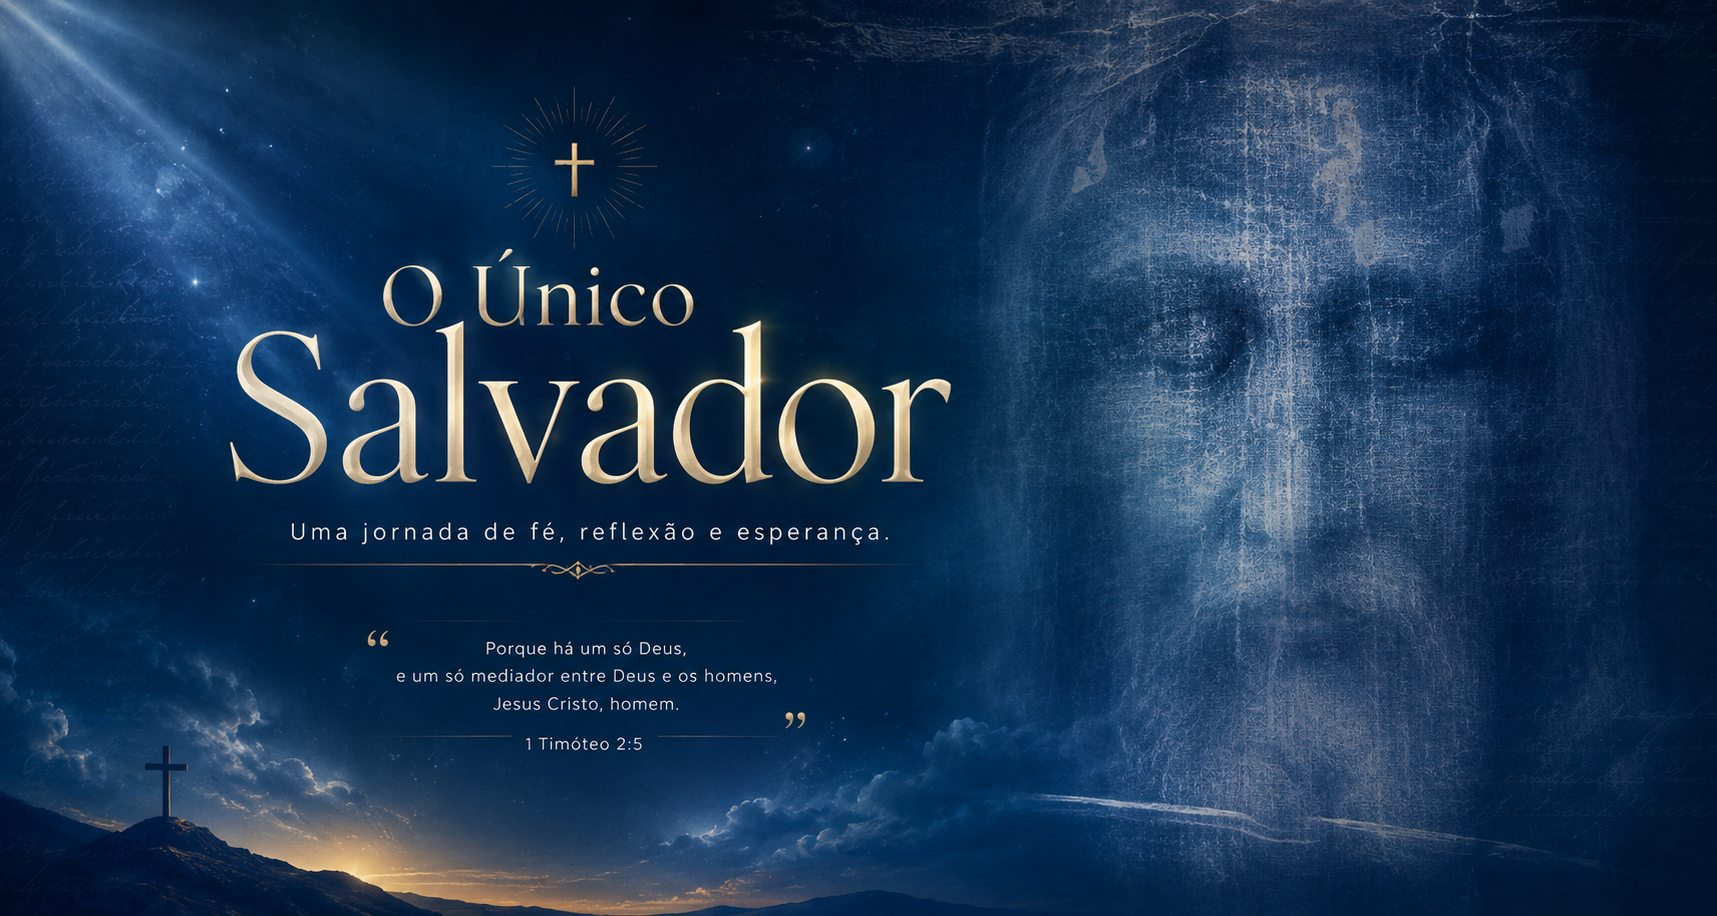
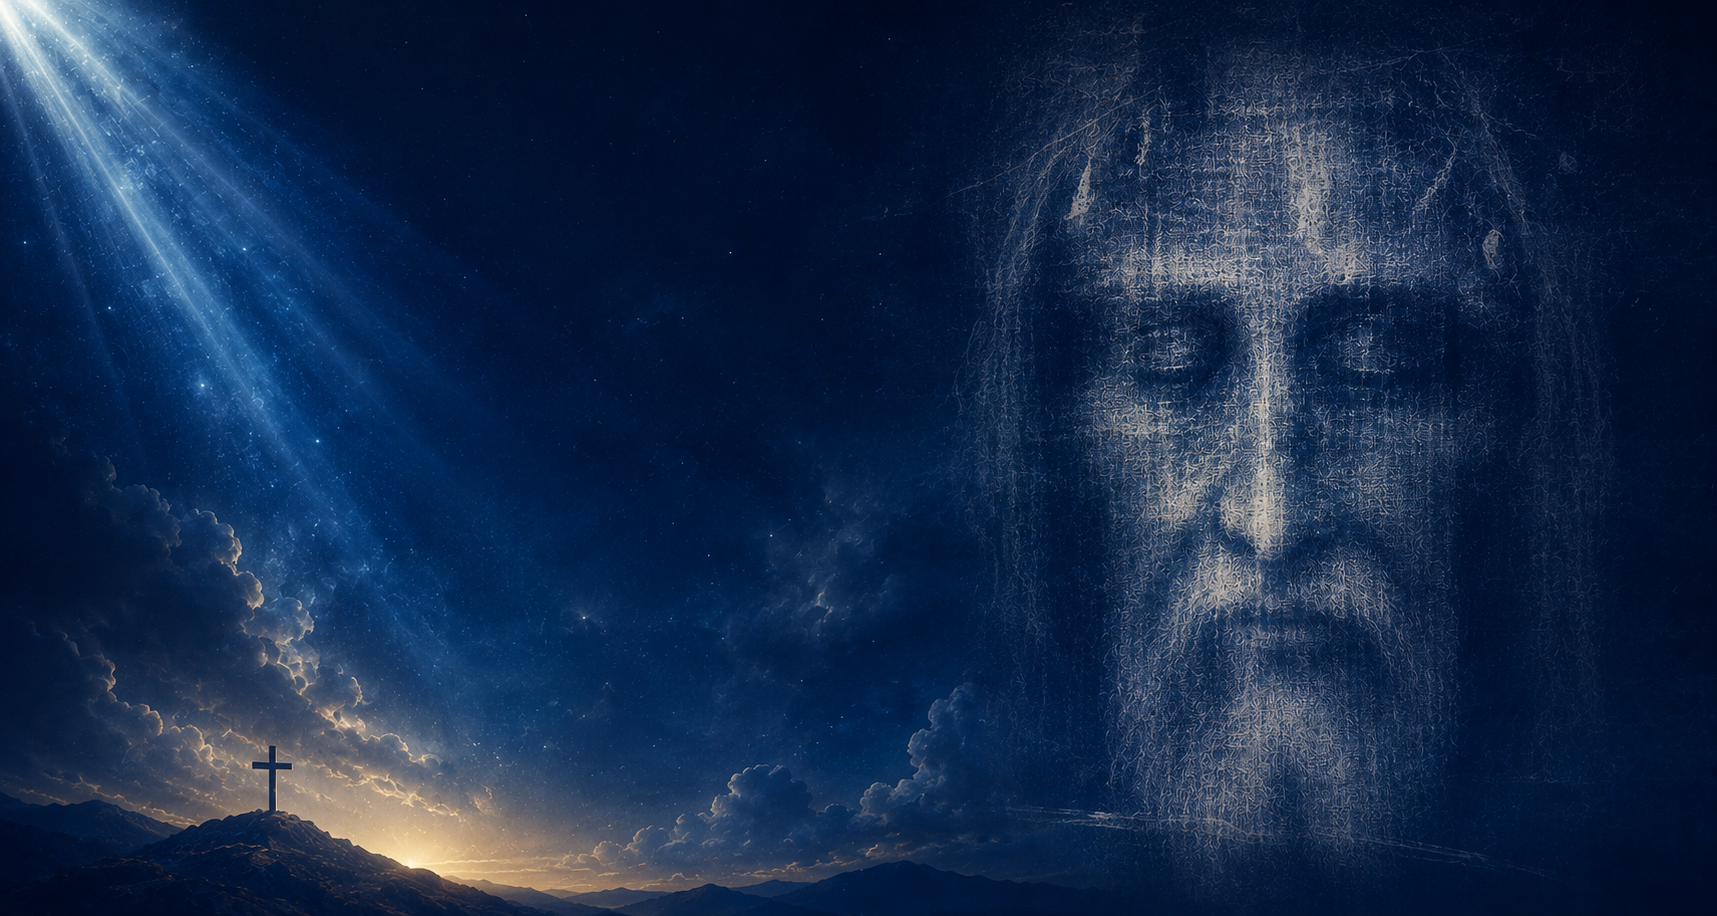
Remontagem de Capa em Desk e Smart

diff --git a/src/components/Header.tsx b/src/components/Header.tsx
@@ -15,24 +15,61 @@ export default function Header() {
 
   useEffect(() => {
     const onScroll = () => setScrolled(window.scrollY > 60);
-
     window.addEventListener('scroll', onScroll);
-
     return () => window.removeEventListener('scroll', onScroll);
   }, []);
 
   return (
     <header id="inicio" className="relative bg-[#020b18]">
-      {/* Banner */}
-      <div className="relative w-full overflow-hidden bg-[#020b18]">
+      {/* Banner com texto em código */}
+      <div className="relative w-full overflow-hidden bg-[#020b18] h-[300px] sm:h-[420px] md:h-[560px] lg:h-[680px]">
         <img
           src="/banner_site.png"
           alt="O Único Salvador"
-          className="w-full h-auto block"
+          className="w-full h-full object-cover"
+          style={{ objectPosition: 'center center' }}
         />
 
-        {/* Vinheta suave */}
-        <div className="absolute inset-0 bg-gradient-to-b from-black/5 via-transparent to-[#020b18]/70" />
+        <div className="absolute inset-0 bg-gradient-to-r from-[#020b18]/75 via-[#020b18]/30 to-[#020b18]/10" />
+        <div className="absolute inset-0 bg-gradient-to-b from-black/10 via-transparent to-[#020b18]/85" />
+
+        <div className="absolute inset-0 flex items-center">
+          <div className="w-full max-w-6xl mx-auto px-6 md:px-10">
+            <div className="max-w-[620px] text-center md:text-left">
+              <div className="flex items-center justify-center md:justify-start gap-3 mb-4 text-amber-300">
+                <div className="h-px w-16 bg-amber-300/50" />
+                <Cross size={22} />
+                <div className="h-px w-16 bg-amber-300/50" />
+              </div>
+
+              <h1
+                className="text-[42px] sm:text-6xl md:text-7xl lg:text-8xl text-amber-100 leading-[0.95] tracking-wide drop-shadow-2xl"
+                style={{ fontFamily: "'Cinzel', serif" }}
+              >
+                O Único
+                <br />
+                Salvador
+              </h1>
+
+              <p
+                className="mt-5 text-xs sm:text-base md:text-xl text-stone-300 tracking-[0.22em] uppercase"
+                style={{ fontFamily: "'Lora', serif" }}
+              >
+                Uma jornada de fé, reflexão e esperança.
+              </p>
+
+              <p
+                className="hidden sm:block mt-8 text-stone-400 text-sm md:text-base leading-relaxed max-w-lg"
+                style={{ fontFamily: "'Lora', serif" }}
+              >
+                “Porque há um só Deus, e um só mediador entre Deus e os homens,
+                Jesus Cristo, homem.”
+                <br />
+                <span className="text-amber-300/80">1 Timóteo 2:5</span>
+              </p>
+            </div>
+          </div>
+        </div>
       </div>
 
       {/* Navbar */}
@@ -44,7 +81,6 @@ export default function Header() {
         }`}
       >
         <div className="max-w-6xl mx-auto px-4 flex items-center justify-between h-14">
-          {/* Logo */}
           <a
             href="#inicio"
             className="flex items-center gap-2 text-amber-300 font-bold tracking-widest text-xs sm:text-sm uppercase hover:text-amber-200 transition-colors"
@@ -54,7 +90,6 @@ export default function Header() {
             <span>O Único Salvador</span>
           </a>
 
-          {/* Desktop menu */}
           <ul className="hidden md:flex gap-8">
             {navItems.map((item) => (
               <li key={item.href}>
@@ -69,7 +104,6 @@ export default function Header() {
             ))}
           </ul>
 
-          {/* Mobile button */}
           <button
             className="md:hidden text-stone-300 hover:text-amber-300 transition-colors"
             onClick={() => setMenuOpen(!menuOpen)}
@@ -79,7 +113,6 @@ export default function Header() {
           </button>
         </div>
 
-        {/* Mobile menu */}
         {menuOpen && (
           <div className="md:hidden bg-[#020b18] border-t border-amber-300/10 px-4 py-4">
             <ul className="flex flex-col gap-4">

diff --git a/src/components/ChatSection.tsx b/src/components/ChatSection.tsx
@@ -119,8 +119,8 @@ export default function ChatSection() {
         </div>
 
         <div className="flex gap-6 items-start flex-col md:flex-row">
-          <div className="md:w-44 flex-shrink-0 flex flex-col items-center">
-            <div className="w-32 h-32 rounded-full overflow-hidden border-4 border-amber-300/40 shadow-xl shadow-amber-300/10 mb-3 bg-[#061428]">
+          <div className="w-full md:w-44 flex-shrink-0 flex flex-col items-center justify-center">
+  <div className="w-24 h-24 sm:w-28 sm:h-28 md:w-32 md:h-32 rounded-full overflow-hidden border-4 border-amber-300/40 shadow-xl shadow-amber-300/10 mb-3 bg-[#061428] mx-auto">
               <img
                 src="/apostolo.png"
                 alt="Apóstolo de Cristo"
